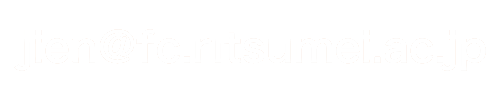
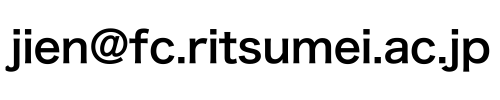
色々変更

Changed region(s): [[0.0, 0.27, 0.99, 0.72]]

diff --git a/contact.html b/contact.html
@@ -94,33 +94,36 @@
             
             <h2 style="text-align: center;">CONTACT</h2>
 
-            <!-- Google マップ -->
-            <div class="header-content" style="vertical-align: middle;">
-                <table>
-                    <iframe src="https://www.google.com/maps/embed?pb=!1m14!1m8!1m3!1d104580.04579676189!2d135.7973803!3d35.0035401!3m2!1i1024!2i768!4f13.1!3m3!1m2!1s0x60016dc10d61a45d%3A0xe0faa970230f12c3!2z44Kv44Oq44Ko44O844K344On44OzIOOCs-OCog!5e0!3m2!1sja!2sjp!4v1559034516056!5m2!1sja!2sjp&t=m" width="100%" height="250" frameborder="0" style="border:0" allowfullscreen></iframe>
-                </table>
-            </div>
+            <div class="contact-parent">
 
-            <div class="header-content"  style="vertical-align: middle;">
-                <table border="black">
-                    <tr>
-                        <th>住所</th>
-                        <td>
-                            〒525-0058<br>
-                            滋賀県草津市野路東１丁目１−１<br>
-                            クリエーションコア ２階<br>
-                        </td>
-                    </tr>
-                    <tr>
-                        <th>E-mail</th>
-                        <td><img src="image/mail.png" height="30px"></td>
-                    </tr>
-                    <tr>
-                        <th>Phone/Fax</th>
-                        <td>+81 (077) 599-4374  </td>
-                    </tr>
-                </table>
+                <div class="content-child">
+                    <table>
+                        <tr>
+                            <th>住所</th>
+                            <td>
+                                〒525-0058<br>
+                                滋賀県草津市野路東１丁目１−１<br>
+                                クリエーションコア ２階<br>
+                            </td>
+                        </tr>
+                        <tr>
+                            <th>E-mail</th>
+                            <td><img src="image/mail.png" height="34px" style="vertical-align: middle"></td>
+                        </tr>
+                        <tr>
+                            <th>Phone/Fax</th>
+                            <td>+81 (077) 599-4374  </td>
+                        </tr>
+                    </table>
+                </div>
 
+                <!-- Google マップ -->
+                <div class="content-child">
+                    <table>
+                        <iframe src="https://www.google.com/maps/embed?pb=!1m14!1m8!1m3!1d104580.04579676189!2d135.7973803!3d35.0035401!3m2!1i1024!2i768!4f13.1!3m3!1m2!1s0x60016dc10d61a45d%3A0xe0faa970230f12c3!2z44Kv44Oq44Ko44O844K344On44OzIOOCs-OCog!5e0!3m2!1sja!2sjp!4v1559034516056!5m2!1sja!2sjp&t=m" width="100%" height="300" frameborder="0" style="border:0" allowfullscreen></iframe>
+                    </table>
+                </div>
+                
             </div>
         
         </div>

diff --git a/css/basic_style.css b/css/basic_style.css
@@ -180,6 +180,34 @@ header {
     border-color: var(--content-border-color);
 }
 
+/* contact.htmlで使用しているスタイル */
+
+.contact-parent {
+    overflow-x:auto;
+    overflow-y:hidden;
+    width:100%;
+    white-space:nowrap;
+}
+
+.content-child {
+    display: inline-block;
+    vertical-align: middle;
+    white-space: nowrap;
+
+    margin: 15px;
+}
+
+.content table {
+    border-collapse: collapse;
+}
+
+.content th,td {
+    border: solid 2px; /* 枠線指定 */
+    border-color: var(--content-border-color);
+    padding: 10px 5px 10px 5px;
+}
+
+/* iPadのための幅指定 */
 
 @media only screen and (max-width: 940px) {
     .content {

diff --git a/member.html b/member.html
@@ -90,6 +90,24 @@
     <!--メインコンテンツ部分-->
     <div class="all-contents">
 
+        <div class="content">
+            <h2>教授</h2>
+            <li>加藤　ジェーン</li>
+
+            <h2>助教</h2>
+            <li>王　彧</li>
+
+            <h2>博士課程</h2>
+            <li></li>
+            <li>趙　隆姣</li>
+            <li>劉　迪超</li>
+            <li>吉　頴</li>
+
+            <h2>修士課程</h2>
+
+            <h2>学部生</h2>
+
+        </div>
 
     </div>
 

diff --git a/index.html b/index.html
@@ -123,7 +123,9 @@
             </div>
         </div>
 
-
+        <div class="content">
+            <h2 style="text-align: center;">B3へのお知らせ</h2>
+        </div>
 
     </div>
 

diff --git a/news.html b/news.html
@@ -81,7 +81,6 @@
             <a href="index.html" target="_parent">視覚情報処理研究室HP</a> 開設
         </li>
 
-        <li>【随時更新】</li>
     </ul>
 </body>
 </html>
